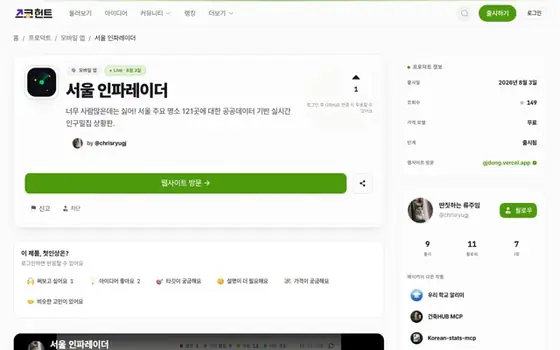
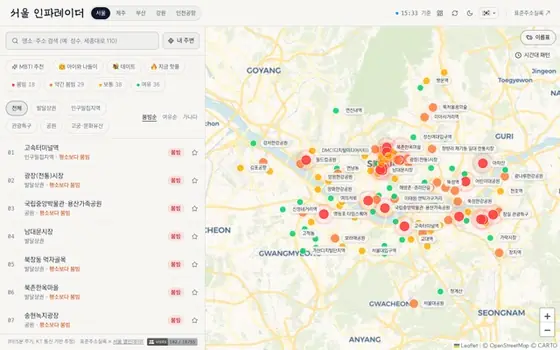
chore: 지표 갱신 (2026-10-05 오후) — 인파레이더 5개 권역 239곳 확장 보강(새 주소·썸네일), 대화량 45,014·가입자 2,386·뉴스 785·영상 91
Claude-Session: https://claude.ai/code/session_017jLqndam5CT9vVi3U6bqTK

diff --git a/site/case/62ed887a548dfb25.html b/site/case/62ed887a548dfb25.html
@@ -3,12 +3,12 @@
 <head>
   <meta charset="utf-8">
   <meta name="viewport" content="width=device-width, initial-scale=1">
-  <title>서울 인파레이더 — 명소 121곳 실시간 인구밀집 상황판 — 모두의 공공AX</title>
-  <meta name="description" content="서울 주요 명소 121곳의 실시간 인구밀집 상황을 공공데이터 기반으로 보여주는 모바일 앱이 공개됐다. 인파가 많은 곳을 피하고 싶은 시민을 위한 상황판으로, 공공 실시간 도시데이터 활용 사례다.">
+  <title>인파레이더 — 서울·제주·부산·강원·인천공항 239곳 실시간 혼잡 상황판 — 모두의 공공AX</title>
+  <meta name="description" content="서울 명소 121곳으로 시작해 제주·부산·강원·인천공항까지 239곳의 실시간 혼잡도를 공공 실시간 데이터로 한 화면에 보여 주는 상황판이다. 서울은 12시간 예측과 주차 여유·문화행사·따릉이·사고 통제 경고를 함께 알려 주며, 인파가 몰리는 곳을 미리 피하려는 시민을 ">
   <link rel="canonical" href="https://hollobit.github.io/PAX/case/62ed887a548dfb25.html">
   <meta property="og:type" content="article">
-  <meta property="og:title" content="서울 인파레이더 — 명소 121곳 실시간 인구밀집 상황판">
-  <meta property="og:description" content="서울 주요 명소 121곳의 실시간 인구밀집 상황을 공공데이터 기반으로 보여주는 모바일 앱이 공개됐다. 인파가 많은 곳을 피하고 싶은 시민을 위한 상황판으로, 공공 실시간 도시데이터 활용 사례다.">
+  <meta property="og:title" content="인파레이더 — 서울·제주·부산·강원·인천공항 239곳 실시간 혼잡 상황판">
+  <meta property="og:description" content="서울 명소 121곳으로 시작해 제주·부산·강원·인천공항까지 239곳의 실시간 혼잡도를 공공 실시간 데이터로 한 화면에 보여 주는 상황판이다. 서울은 12시간 예측과 주차 여유·문화행사·따릉이·사고 통제 경고를 함께 알려 주며, 인파가 몰리는 곳을 미리 피하려는 시민을 ">
   <meta property="og:url" content="https://hollobit.github.io/PAX/case/62ed887a548dfb25.html">
   <meta property="og:site_name" content="모두의 공공AX 사례 아카이브">
   <link rel="stylesheet" href="../style.css?v=395e757c">
@@ -16,7 +16,7 @@
 <body>
   <header class="site-header">
     <p class="eyebrow">PUBLIC SECTOR AX CASE · 사례 62ed887a548dfb25</p>
-    <h1>서울 인파레이더 — 명소 121곳 실시간 인구밀집 상황판</h1>
+    <h1>인파레이더 — 서울·제주·부산·강원·인천공항 239곳 실시간 혼잡 상황판</h1>
     <nav class="site-nav" aria-label="주요 메뉴">
       <a href="../">사례 아카이브</a>
       <a href="../pax3d.html">3D PAX</a>
@@ -44,8 +44,8 @@
   <main class="case-page">
     <section class="obs-section">
       <p class="case-page__meta">공직 현장(개인 개발) · 공직 개인 · 서울 · 시설·안전 · 2026-08-07 게시</p>
-      <p class="case-page__summary">서울 주요 명소 121곳의 실시간 인구밀집 상황을 공공데이터 기반으로 보여주는 모바일 앱이 공개됐다. 인파가 많은 곳을 피하고 싶은 시민을 위한 상황판으로, 공공 실시간 도시데이터 활용 사례다.</p>
-      <p class="case-page__links"><a href="https://jocohunt.com/p/7uubvp1t" target="_blank" rel="noopener">사례 대상 바로가기</a> · <a href="https://jocohunt.com/p/7uubvp1t" target="_blank" rel="noopener">공유 링크</a> · <a href="../?case=62ed887a548dfb25">아카이브에서 보기</a></p>
+      <p class="case-page__summary">서울 명소 121곳으로 시작해 제주·부산·강원·인천공항까지 239곳의 실시간 혼잡도를 공공 실시간 데이터로 한 화면에 보여 주는 상황판이다. 서울은 12시간 예측과 주차 여유·문화행사·따릉이·사고 통제 경고를 함께 알려 주며, 인파가 몰리는 곳을 미리 피하려는 시민을 돕는다.</p>
+      <p class="case-page__links"><a href="https://gjdong.vercel.app/crowd" target="_blank" rel="noopener">사례 대상 바로가기</a> · <a href="https://jocohunt.com/p/7uubvp1t" target="_blank" rel="noopener">공유 링크</a> · <a href="../?case=62ed887a548dfb25">아카이브에서 보기</a></p>
     </section>
     <section class="obs-section">
       <h2 class="obs-heading">4축 평가</h2>

diff --git a/site/case/05c30a6088be7960.html b/site/case/05c30a6088be7960.html
@@ -63,7 +63,7 @@
     </section>
     <section class="obs-section">
       <h2 class="obs-heading">비슷한 업무의 사례</h2>
-      <ul class="case-page__related"><li><a href="62ed887a548dfb25.html">서울 인파레이더 — 명소 121곳 실시간 인구밀집 상황판</a></li><li><a href="ef0fc393d25e4e97.html">북적북적 인천공항 — 실시간 혼잡 지도</a></li><li><a href="cba450dfb5c8fadf.html">표준주소실록 — 주소 표준화 정리 도구</a></li></ul>
+      <ul class="case-page__related"><li><a href="62ed887a548dfb25.html">인파레이더 — 서울·제주·부산·강원·인천공항 239곳 실시간 혼잡 상황판</a></li><li><a href="ef0fc393d25e4e97.html">북적북적 인천공항 — 실시간 혼잡 지도</a></li><li><a href="cba450dfb5c8fadf.html">표준주소실록 — 주소 표준화 정리 도구</a></li></ul>
     </section>
     <footer class="obs-note">
       <p>출처: 모두의 공공AX 사례 아카이브 · 자기선택 표본 · 근거 없는 항목은 '미확인'으로 표기 ·

diff --git a/site/case/11cbf10247642c9f.html b/site/case/11cbf10247642c9f.html
@@ -63,7 +63,7 @@
     </section>
     <section class="obs-section">
       <h2 class="obs-heading">비슷한 업무의 사례</h2>
-      <ul class="case-page__related"><li><a href="62ed887a548dfb25.html">서울 인파레이더 — 명소 121곳 실시간 인구밀집 상황판</a></li><li><a href="ef0fc393d25e4e97.html">북적북적 인천공항 — 실시간 혼잡 지도</a></li><li><a href="cba450dfb5c8fadf.html">표준주소실록 — 주소 표준화 정리 도구</a></li></ul>
+      <ul class="case-page__related"><li><a href="62ed887a548dfb25.html">인파레이더 — 서울·제주·부산·강원·인천공항 239곳 실시간 혼잡 상황판</a></li><li><a href="ef0fc393d25e4e97.html">북적북적 인천공항 — 실시간 혼잡 지도</a></li><li><a href="cba450dfb5c8fadf.html">표준주소실록 — 주소 표준화 정리 도구</a></li></ul>
     </section>
     <footer class="obs-note">
       <p>출처: 모두의 공공AX 사례 아카이브 · 자기선택 표본 · 근거 없는 항목은 '미확인'으로 표기 ·

diff --git a/site/case/2085370092f99007.html b/site/case/2085370092f99007.html
@@ -63,7 +63,7 @@
     </section>
     <section class="obs-section">
       <h2 class="obs-heading">비슷한 업무의 사례</h2>
-      <ul class="case-page__related"><li><a href="62ed887a548dfb25.html">서울 인파레이더 — 명소 121곳 실시간 인구밀집 상황판</a></li><li><a href="ef0fc393d25e4e97.html">북적북적 인천공항 — 실시간 혼잡 지도</a></li><li><a href="cba450dfb5c8fadf.html">표준주소실록 — 주소 표준화 정리 도구</a></li></ul>
+      <ul class="case-page__related"><li><a href="62ed887a548dfb25.html">인파레이더 — 서울·제주·부산·강원·인천공항 239곳 실시간 혼잡 상황판</a></li><li><a href="ef0fc393d25e4e97.html">북적북적 인천공항 — 실시간 혼잡 지도</a></li><li><a href="cba450dfb5c8fadf.html">표준주소실록 — 주소 표준화 정리 도구</a></li></ul>
     </section>
     <footer class="obs-note">
       <p>출처: 모두의 공공AX 사례 아카이브 · 자기선택 표본 · 근거 없는 항목은 '미확인'으로 표기 ·

diff --git a/site/case/224e2d82d9369735.html b/site/case/224e2d82d9369735.html
@@ -63,7 +63,7 @@
     </section>
     <section class="obs-section">
       <h2 class="obs-heading">비슷한 업무의 사례</h2>
-      <ul class="case-page__related"><li><a href="62ed887a548dfb25.html">서울 인파레이더 — 명소 121곳 실시간 인구밀집 상황판</a></li><li><a href="ef0fc393d25e4e97.html">북적북적 인천공항 — 실시간 혼잡 지도</a></li><li><a href="cba450dfb5c8fadf.html">표준주소실록 — 주소 표준화 정리 도구</a></li></ul>
+      <ul class="case-page__related"><li><a href="62ed887a548dfb25.html">인파레이더 — 서울·제주·부산·강원·인천공항 239곳 실시간 혼잡 상황판</a></li><li><a href="ef0fc393d25e4e97.html">북적북적 인천공항 — 실시간 혼잡 지도</a></li><li><a href="cba450dfb5c8fadf.html">표준주소실록 — 주소 표준화 정리 도구</a></li></ul>
     </section>
     <footer class="obs-note">
       <p>출처: 모두의 공공AX 사례 아카이브 · 자기선택 표본 · 근거 없는 항목은 '미확인'으로 표기 ·

diff --git a/site/case/2442dc859d5bac3a.html b/site/case/2442dc859d5bac3a.html
@@ -63,7 +63,7 @@
     </section>
     <section class="obs-section">
       <h2 class="obs-heading">비슷한 업무의 사례</h2>
-      <ul class="case-page__related"><li><a href="62ed887a548dfb25.html">서울 인파레이더 — 명소 121곳 실시간 인구밀집 상황판</a></li><li><a href="ef0fc393d25e4e97.html">북적북적 인천공항 — 실시간 혼잡 지도</a></li><li><a href="cba450dfb5c8fadf.html">표준주소실록 — 주소 표준화 정리 도구</a></li></ul>
+      <ul class="case-page__related"><li><a href="62ed887a548dfb25.html">인파레이더 — 서울·제주·부산·강원·인천공항 239곳 실시간 혼잡 상황판</a></li><li><a href="ef0fc393d25e4e97.html">북적북적 인천공항 — 실시간 혼잡 지도</a></li><li><a href="cba450dfb5c8fadf.html">표준주소실록 — 주소 표준화 정리 도구</a></li></ul>
     </section>
     <footer class="obs-note">
       <p>출처: 모두의 공공AX 사례 아카이브 · 자기선택 표본 · 근거 없는 항목은 '미확인'으로 표기 ·

diff --git a/site/case/2da44c532cd48ea4.html b/site/case/2da44c532cd48ea4.html
@@ -63,7 +63,7 @@
     </section>
     <section class="obs-section">
       <h2 class="obs-heading">비슷한 업무의 사례</h2>
-      <ul class="case-page__related"><li><a href="62ed887a548dfb25.html">서울 인파레이더 — 명소 121곳 실시간 인구밀집 상황판</a></li><li><a href="ef0fc393d25e4e97.html">북적북적 인천공항 — 실시간 혼잡 지도</a></li><li><a href="cba450dfb5c8fadf.html">표준주소실록 — 주소 표준화 정리 도구</a></li></ul>
+      <ul class="case-page__related"><li><a href="62ed887a548dfb25.html">인파레이더 — 서울·제주·부산·강원·인천공항 239곳 실시간 혼잡 상황판</a></li><li><a href="ef0fc393d25e4e97.html">북적북적 인천공항 — 실시간 혼잡 지도</a></li><li><a href="cba450dfb5c8fadf.html">표준주소실록 — 주소 표준화 정리 도구</a></li></ul>
     </section>
     <footer class="obs-note">
       <p>출처: 모두의 공공AX 사례 아카이브 · 자기선택 표본 · 근거 없는 항목은 '미확인'으로 표기 ·

diff --git a/site/case/3d3eaf8759345a3f.html b/site/case/3d3eaf8759345a3f.html
@@ -63,7 +63,7 @@
     </section>
     <section class="obs-section">
       <h2 class="obs-heading">비슷한 업무의 사례</h2>
-      <ul class="case-page__related"><li><a href="62ed887a548dfb25.html">서울 인파레이더 — 명소 121곳 실시간 인구밀집 상황판</a></li><li><a href="ef0fc393d25e4e97.html">북적북적 인천공항 — 실시간 혼잡 지도</a></li><li><a href="cba450dfb5c8fadf.html">표준주소실록 — 주소 표준화 정리 도구</a></li></ul>
+      <ul class="case-page__related"><li><a href="62ed887a548dfb25.html">인파레이더 — 서울·제주·부산·강원·인천공항 239곳 실시간 혼잡 상황판</a></li><li><a href="ef0fc393d25e4e97.html">북적북적 인천공항 — 실시간 혼잡 지도</a></li><li><a href="cba450dfb5c8fadf.html">표준주소실록 — 주소 표준화 정리 도구</a></li></ul>
     </section>
     <footer class="obs-note">
       <p>출처: 모두의 공공AX 사례 아카이브 · 자기선택 표본 · 근거 없는 항목은 '미확인'으로 표기 ·

diff --git a/site/case/48a2fe695d62b13f.html b/site/case/48a2fe695d62b13f.html
@@ -63,7 +63,7 @@
     </section>
     <section class="obs-section">
       <h2 class="obs-heading">비슷한 업무의 사례</h2>
-      <ul class="case-page__related"><li><a href="62ed887a548dfb25.html">서울 인파레이더 — 명소 121곳 실시간 인구밀집 상황판</a></li><li><a href="ef0fc393d25e4e97.html">북적북적 인천공항 — 실시간 혼잡 지도</a></li><li><a href="cba450dfb5c8fadf.html">표준주소실록 — 주소 표준화 정리 도구</a></li></ul>
+      <ul class="case-page__related"><li><a href="62ed887a548dfb25.html">인파레이더 — 서울·제주·부산·강원·인천공항 239곳 실시간 혼잡 상황판</a></li><li><a href="ef0fc393d25e4e97.html">북적북적 인천공항 — 실시간 혼잡 지도</a></li><li><a href="cba450dfb5c8fadf.html">표준주소실록 — 주소 표준화 정리 도구</a></li></ul>
     </section>
     <footer class="obs-note">
       <p>출처: 모두의 공공AX 사례 아카이브 · 자기선택 표본 · 근거 없는 항목은 '미확인'으로 표기 ·

diff --git a/site/case/4ab9bf954cb48eb9.html b/site/case/4ab9bf954cb48eb9.html
@@ -63,7 +63,7 @@
     </section>
     <section class="obs-section">
       <h2 class="obs-heading">비슷한 업무의 사례</h2>
-      <ul class="case-page__related"><li><a href="62ed887a548dfb25.html">서울 인파레이더 — 명소 121곳 실시간 인구밀집 상황판</a></li><li><a href="ef0fc393d25e4e97.html">북적북적 인천공항 — 실시간 혼잡 지도</a></li><li><a href="cba450dfb5c8fadf.html">표준주소실록 — 주소 표준화 정리 도구</a></li></ul>
+      <ul class="case-page__related"><li><a href="62ed887a548dfb25.html">인파레이더 — 서울·제주·부산·강원·인천공항 239곳 실시간 혼잡 상황판</a></li><li><a href="ef0fc393d25e4e97.html">북적북적 인천공항 — 실시간 혼잡 지도</a></li><li><a href="cba450dfb5c8fadf.html">표준주소실록 — 주소 표준화 정리 도구</a></li></ul>
     </section>
     <footer class="obs-note">
       <p>출처: 모두의 공공AX 사례 아카이브 · 자기선택 표본 · 근거 없는 항목은 '미확인'으로 표기 ·

diff --git a/site/case/4ce9fa1c75ec36b5.html b/site/case/4ce9fa1c75ec36b5.html
@@ -63,7 +63,7 @@
     </section>
     <section class="obs-section">
       <h2 class="obs-heading">비슷한 업무의 사례</h2>
-      <ul class="case-page__related"><li><a href="62ed887a548dfb25.html">서울 인파레이더 — 명소 121곳 실시간 인구밀집 상황판</a></li><li><a href="ef0fc393d25e4e97.html">북적북적 인천공항 — 실시간 혼잡 지도</a></li><li><a href="cba450dfb5c8fadf.html">표준주소실록 — 주소 표준화 정리 도구</a></li></ul>
+      <ul class="case-page__related"><li><a href="62ed887a548dfb25.html">인파레이더 — 서울·제주·부산·강원·인천공항 239곳 실시간 혼잡 상황판</a></li><li><a href="ef0fc393d25e4e97.html">북적북적 인천공항 — 실시간 혼잡 지도</a></li><li><a href="cba450dfb5c8fadf.html">표준주소실록 — 주소 표준화 정리 도구</a></li></ul>
     </section>
     <footer class="obs-note">
       <p>출처: 모두의 공공AX 사례 아카이브 · 자기선택 표본 · 근거 없는 항목은 '미확인'으로 표기 ·

diff --git a/site/case/4ef5fe3f290f3df3.html b/site/case/4ef5fe3f290f3df3.html
@@ -63,7 +63,7 @@
     </section>
     <section class="obs-section">
       <h2 class="obs-heading">비슷한 업무의 사례</h2>
-      <ul class="case-page__related"><li><a href="62ed887a548dfb25.html">서울 인파레이더 — 명소 121곳 실시간 인구밀집 상황판</a></li><li><a href="ef0fc393d25e4e97.html">북적북적 인천공항 — 실시간 혼잡 지도</a></li><li><a href="cba450dfb5c8fadf.html">표준주소실록 — 주소 표준화 정리 도구</a></li></ul>
+      <ul class="case-page__related"><li><a href="62ed887a548dfb25.html">인파레이더 — 서울·제주·부산·강원·인천공항 239곳 실시간 혼잡 상황판</a></li><li><a href="ef0fc393d25e4e97.html">북적북적 인천공항 — 실시간 혼잡 지도</a></li><li><a href="cba450dfb5c8fadf.html">표준주소실록 — 주소 표준화 정리 도구</a></li></ul>
     </section>
     <footer class="obs-note">
       <p>출처: 모두의 공공AX 사례 아카이브 · 자기선택 표본 · 근거 없는 항목은 '미확인'으로 표기 ·
